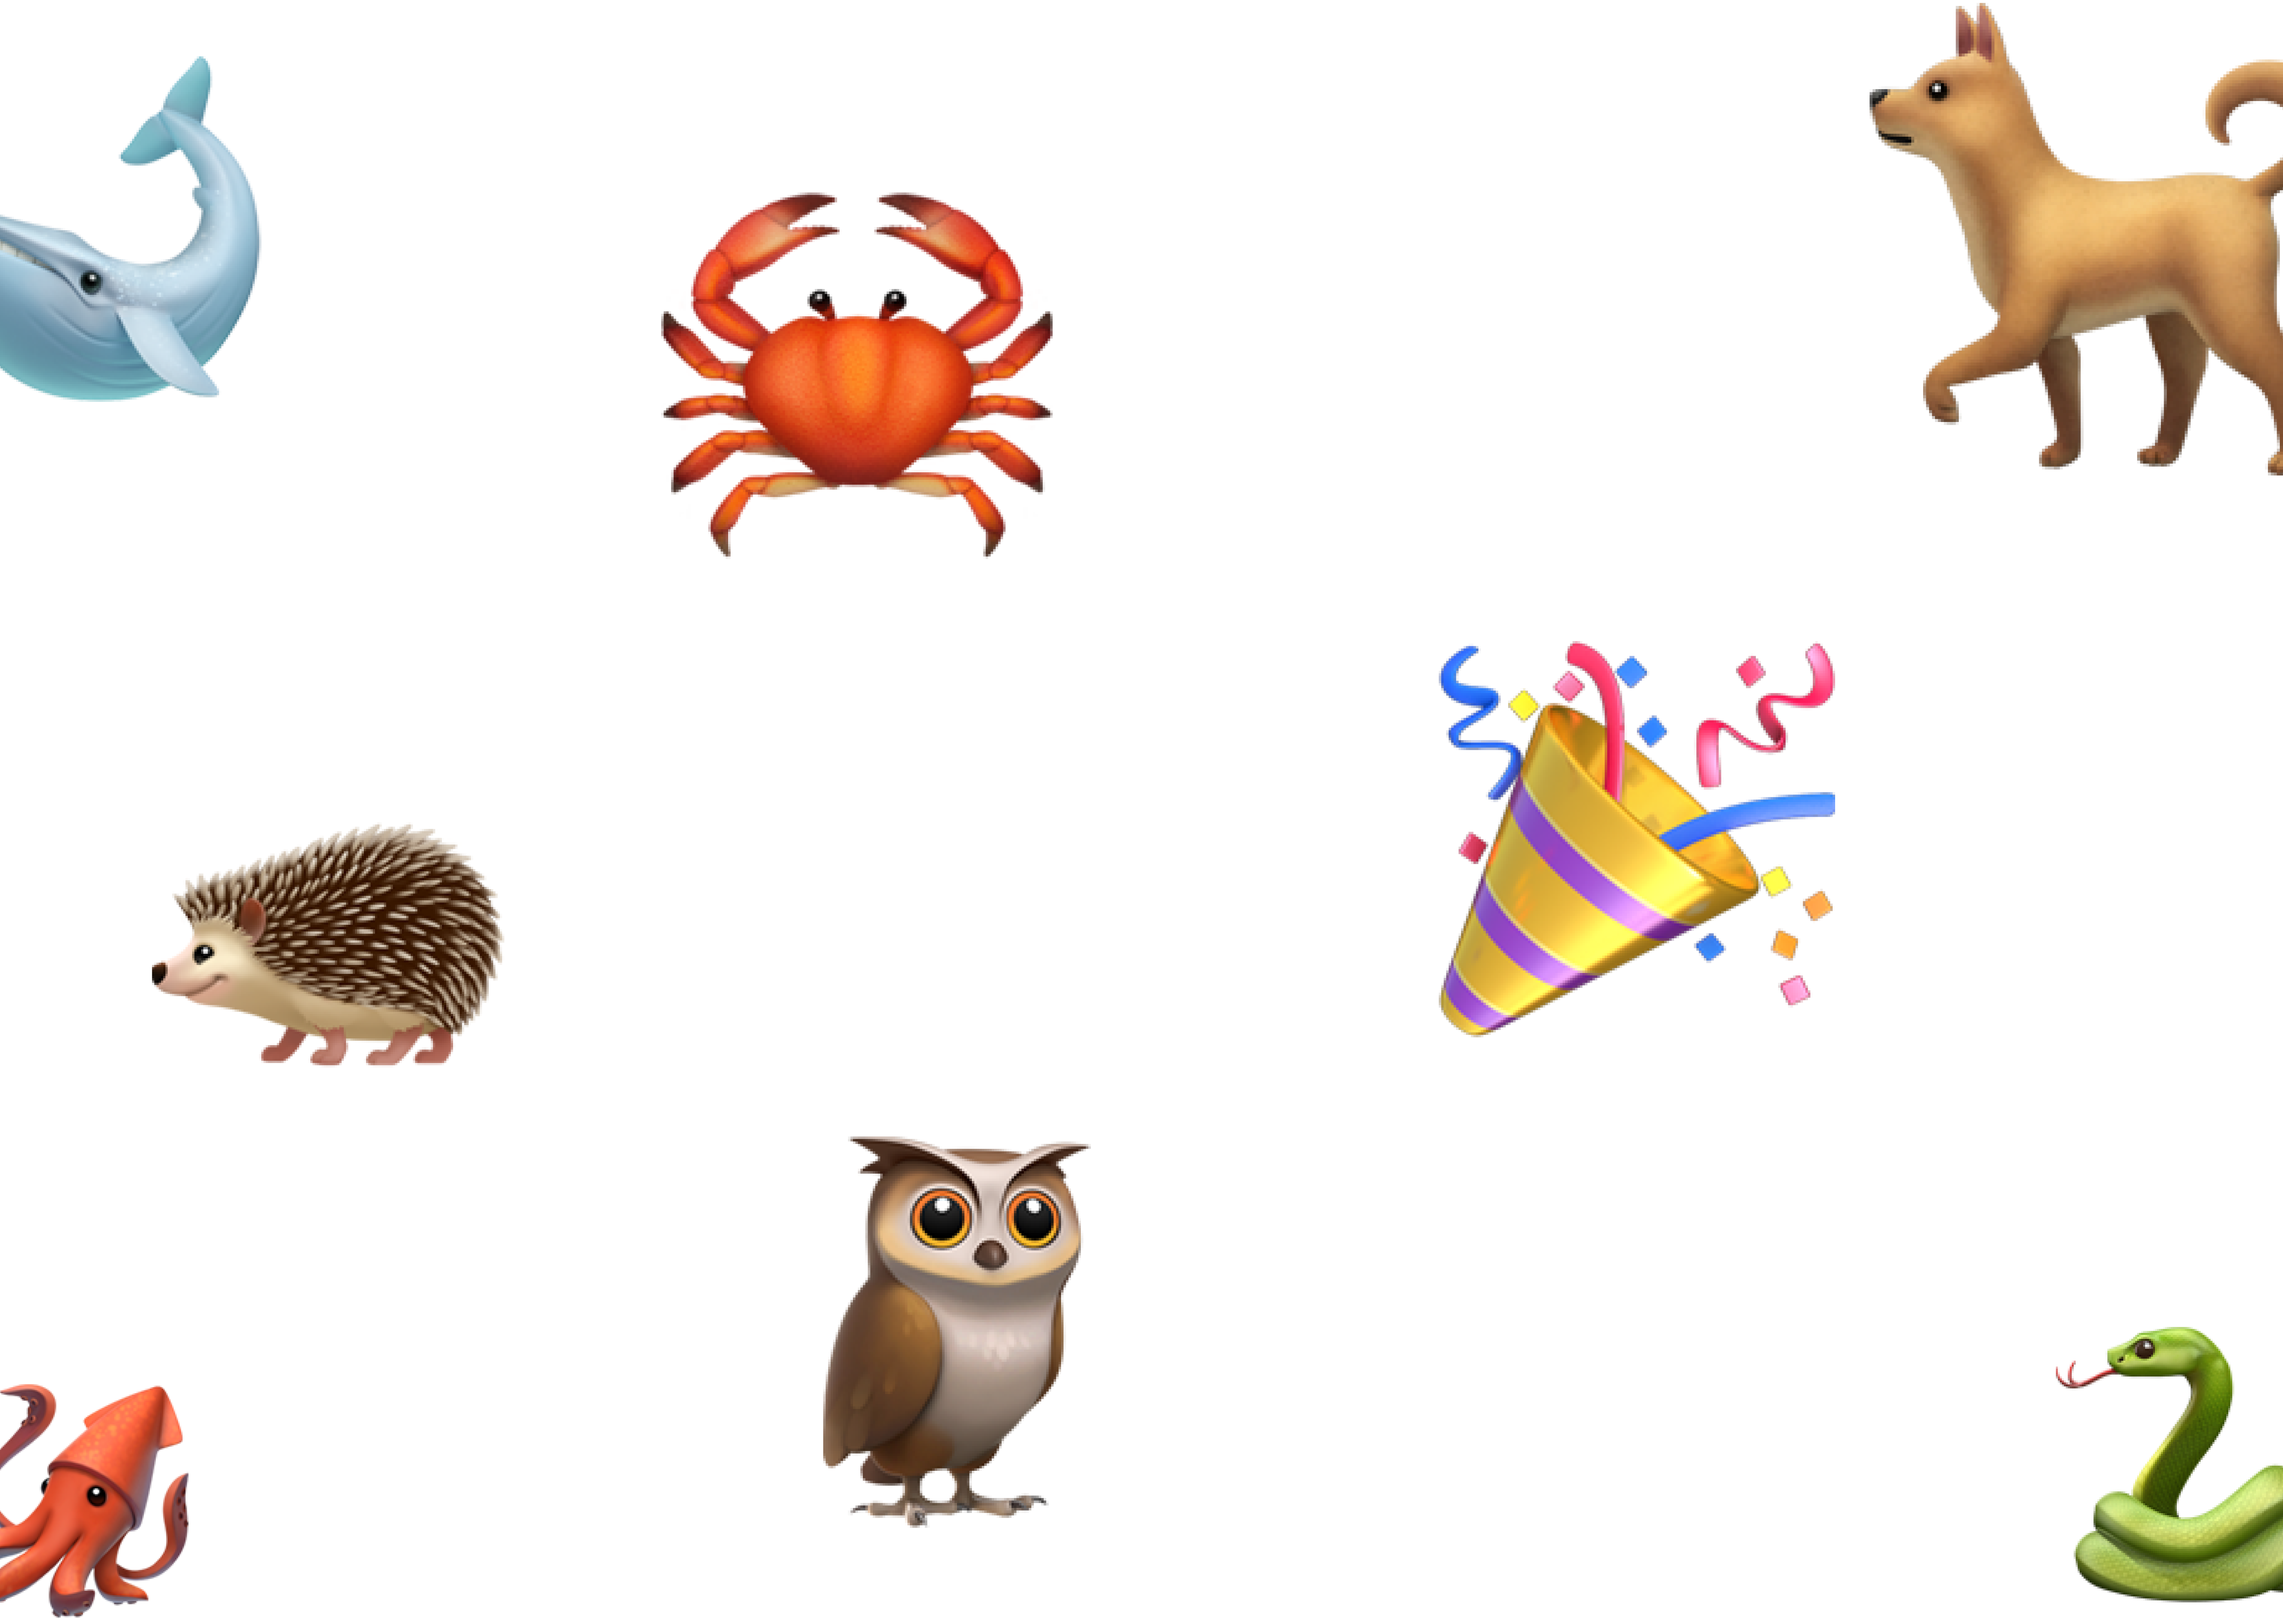
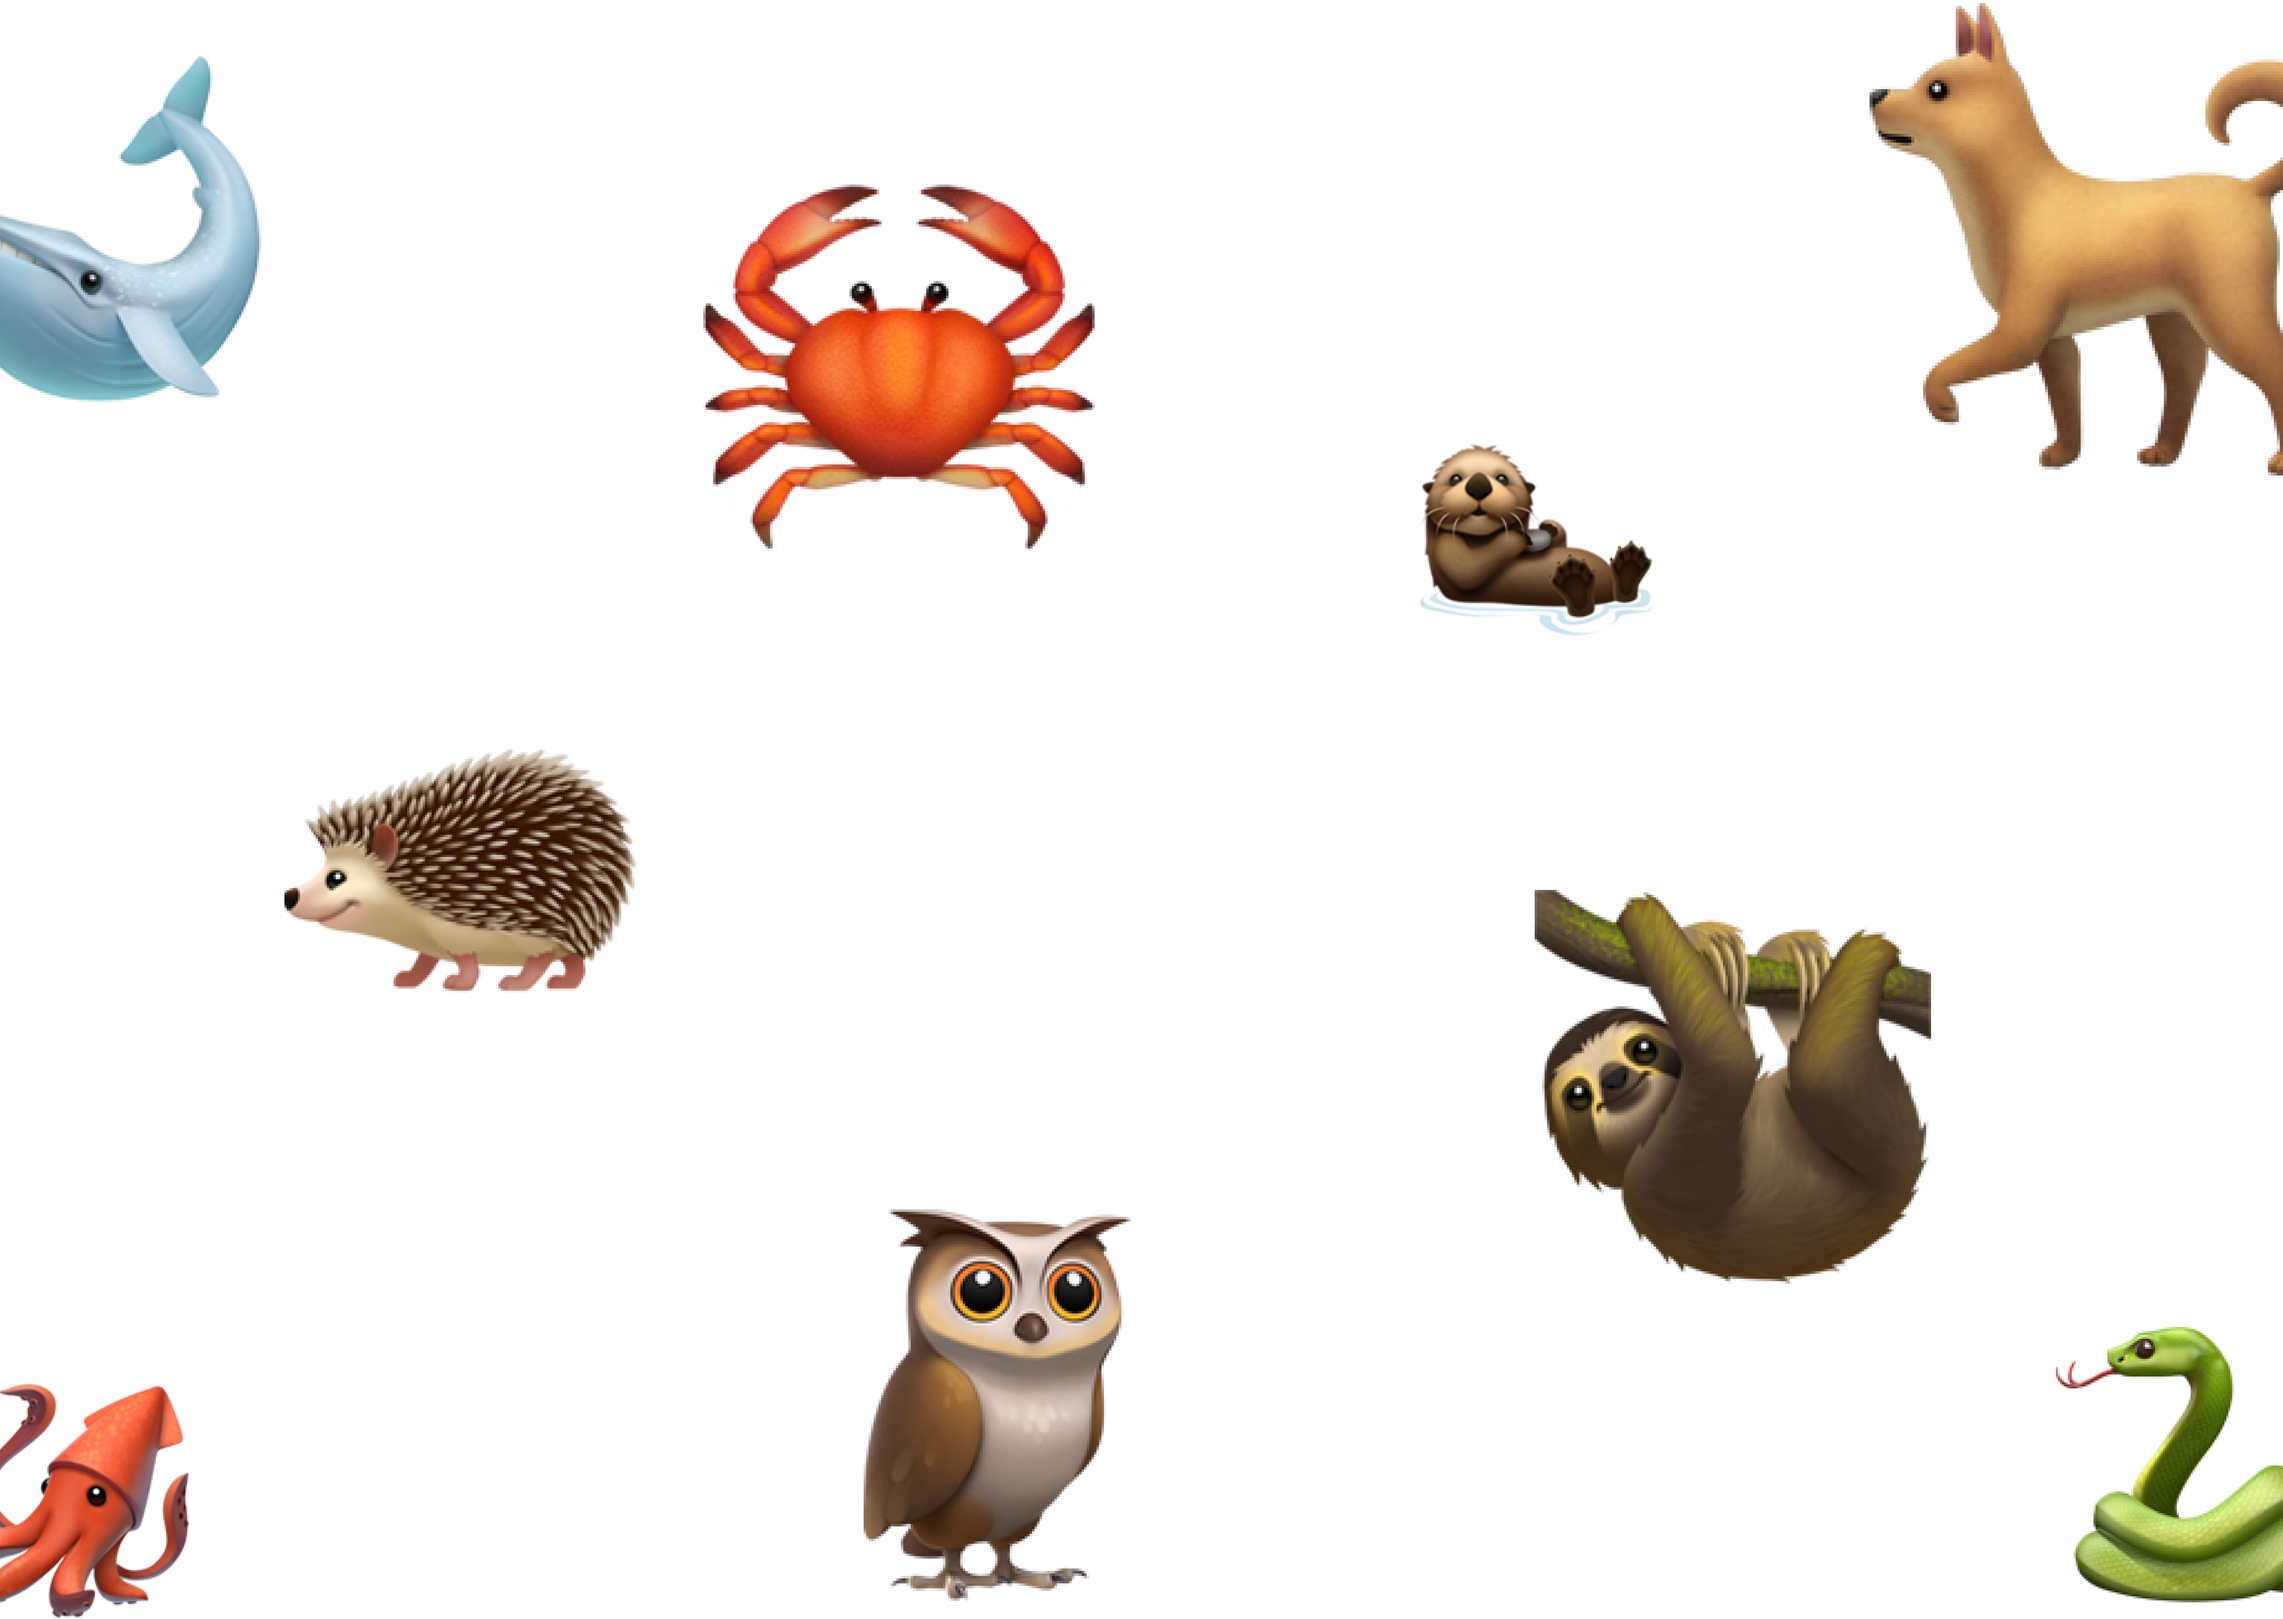
adding final text to fissa project

diff --git a/src/content/portfolio/fissa.md b/src/content/portfolio/fissa.md
@@ -249,6 +249,147 @@ class NativeToast extends Toaster {
 }
 ```
 
+By playing around with animal-eomjis as copy we try to lighten the mood of Fissa and bring some extra joy to the experience.
+<br/><br/>
+Besides, it was a fun exercise to find the right animal for the different states of Fissa.
+
+**A few examples of the use of emojis in Fissa**
+![A few examples on how emojis are used in Fissa. For example, when skipping a song you will see the text "ssssssssssssskipping song" with the emoji of a snake](/portfolio/fissa/emojis_in_screens.png)
+
+## The Fissa never stops.
+What is more annoying than being at a party, finally having the courage to show your moves and then the musics stops.
+<br/><br/>
+This should never happen, the Fissa never stops.
+<br/><br/>
+Whenever the queue is about to get empty, Fissa will add recommended tracks. These will be semi-random tracks, utilizing the <span><a href="https://developer.spotify.com/documentation/web-api/reference/get-recommendations" target="_blank">Spotify recommendations</a></span>, but most importantly they will be based on the tracks which gained the most votes.
+
+```typescript
+class FissaService {
+    // ...
+
+    playNextTrack = async () => {
+        // ...
+
+        if (nextTracks.length <= TRACKS_BEFORE_ADDING_RECOMMENDATIONS) {
+            const withPositiveScore = tracks.filter(({ totalScore }) => totalScore > 0);
+            const tracksToMap = withPositiveScore.length ? withPositiveScore : tracks;
+
+            const trackIds = tracksToMap
+                .map(({ trackId }) => trackId)
+                .sort(randomSort)
+                .slice(0, TRACKS_BEFORE_ADDING_RECOMMENDATIONS);
+
+            try {
+                await this.trackService.addRecommendedTracks(pin, trackIds, access_token!);
+            } catch (e) {
+                logger.error(`${fissa.pin}, failed adding recommended tracks`, e);
+            }
+        }
+    }
+}
+```
+
+**The playlist is democratic, votes determine the queue**
+![The more votes a song has, the sooner it will be played on the Fissa](/portfolio/fissa/voting.png)
+
+_Determine the song index_
+As the Fissa is a collaborative playlist, users determine the order of the songs. This is done by voting on the songs. This proved to be the most challenging part of the project.
+<br/><br/>
+Initially we just stored the index of the songs directly into the database. This way we put an unique index on the track for data integrity, and we could easily sort the tracks by their index.
+
+**Initial modal of a song within Fissa**
+```prisma
+model Track {
+    index  Int @db.SmallInt
+    trackId String @map("track_id") @db.VarChar(22)
+
+    fissa Fissa @relation(fields: [pin], references: [pin], onDelete: Cascade)
+    pin String @db.VarChar(4)
+    
+    @@id([pin, trackId])
+    @@unique([pin, index])
+    @@map("tracks")
+}
+```
+
+Easy peasy, lemon squeezy right? Well, not quite. This approach has a few drawbacks:
+
+1. Whenever we add a song to the Fissa, we up-vote the track. Who doesn't want to up-vote their own track, right? However, this means whenever a track is added we needed to re-calculate the index of all the tracks below the current track as their order might have been changed.
+2. Users can up- and down-vote track at any time. This means that the index of the tracks is constantly changing. This is not a problem in itself, but it can interfere with any ongoing re-calculations of the indexes.
+
+Besides this, Fissa is hosted serverless on <span><a href="https://vercel.com/" target="_blank">vercel</a></span>. As nobody pays for their pet-project in this day-and-age, we only have 10 seconds to perform any operation. Recalculating and updating indexes of Fissas with 50+ songs proved to be not possible. Event with the latest <span><a href="https://www.prisma.io/blog/prisma-and-serverless-73hbgKnZ6t" target="_blank">9x improvements</a></span> in prisma serverless cold starts.
+<br/><br/>
+Finally, due to the uniqueness of the data-modal we needed to update the indexes twice. Once to clear out the new index, and once to update the index of the track which was moved.
+
+Eventually we settled on inferring the position of a track based on its' score. The score is updated each time a user votes on a track. The score is cleared whenever the song is being played.
+
+**Storing the score in the database**
+```prisma
+model Track {
+    trackId String @map("track_id") @db.VarChar(22)
+
+    fissa Fissa @relation(fields: [pin], references: [pin], onDelete: Cascade)
+    pin String @db.VarChar(4)
+
+    votes Vote[]
+    score Int @db.SmallInt @default(0) // Value used for ordering tracks in a fissa
+
+    @@unique([pin, trackId])
+    @@map("tracks")
+}
+```
+
+**THE algorithm**
+```typescript
+const sortTrack = (a: { time: Date; trackId: string }, b: { time: Date; trackId: string }) => {
+  const aTime = a.time.getTime();
+  const bTime = b.time.getTime();
+
+  if (aTime === bTime) return a.trackId.localeCompare(b.trackId);
+
+  return aTime - bTime;
+};
+
+export const sortFissaTracksOrder = <T extends SortableTrack>(
+  tracks?: T[],
+  activeTrackId?: string | null,
+) => {
+  if (!tracks) return [];
+
+  let sortedTracks: T[] = [];
+
+  const playedTracks = tracks.filter(
+    ({ hasBeenPlayed, trackId }) => hasBeenPlayed && trackId !== activeTrackId,
+  );
+  const unplayedTracks = tracks.filter(
+    ({ hasBeenPlayed, trackId }) => !hasBeenPlayed && trackId !== activeTrackId,
+  );
+  const activeTrack = tracks.find(({ trackId }) => trackId === activeTrackId);
+
+  const sortedPlayedTracks = playedTracks.sort((a, b) => {
+    return sortTrack({ ...a, time: a.lastUpdateAt }, { ...b, time: b.lastUpdateAt });
+  });
+
+  const sortedUnplayedTracks = unplayedTracks.sort((a, b) => {
+    if (a.score === b.score) {
+      return sortTrack({ ...a, time: a.createdAt }, { ...b, time: b.createdAt });
+    }
+
+    return b.score - a.score;
+  });
+
+  sortedTracks = sortedTracks.concat(sortedPlayedTracks);
+  if (activeTrack) sortedTracks.push(activeTrack);
+  sortedTracks = sortedTracks.concat(sortedUnplayedTracks);
+
+  return sortedTracks;
+};
+```
+
+Phew, you made it all the way through the though end. That last part was code heavy. Here, have a 🍪.
+<br/><br/>
+Code can be scary right, but it's also fun.
+
 <a href="mailto:mail@sanderboer.nl?subject=Let's chat!&body=Hi, I'd like to talk about Fissa," aria-label="Send me an email to I can tell you more" target="_blank">I'd like to know more</a>
 
 <hr />
